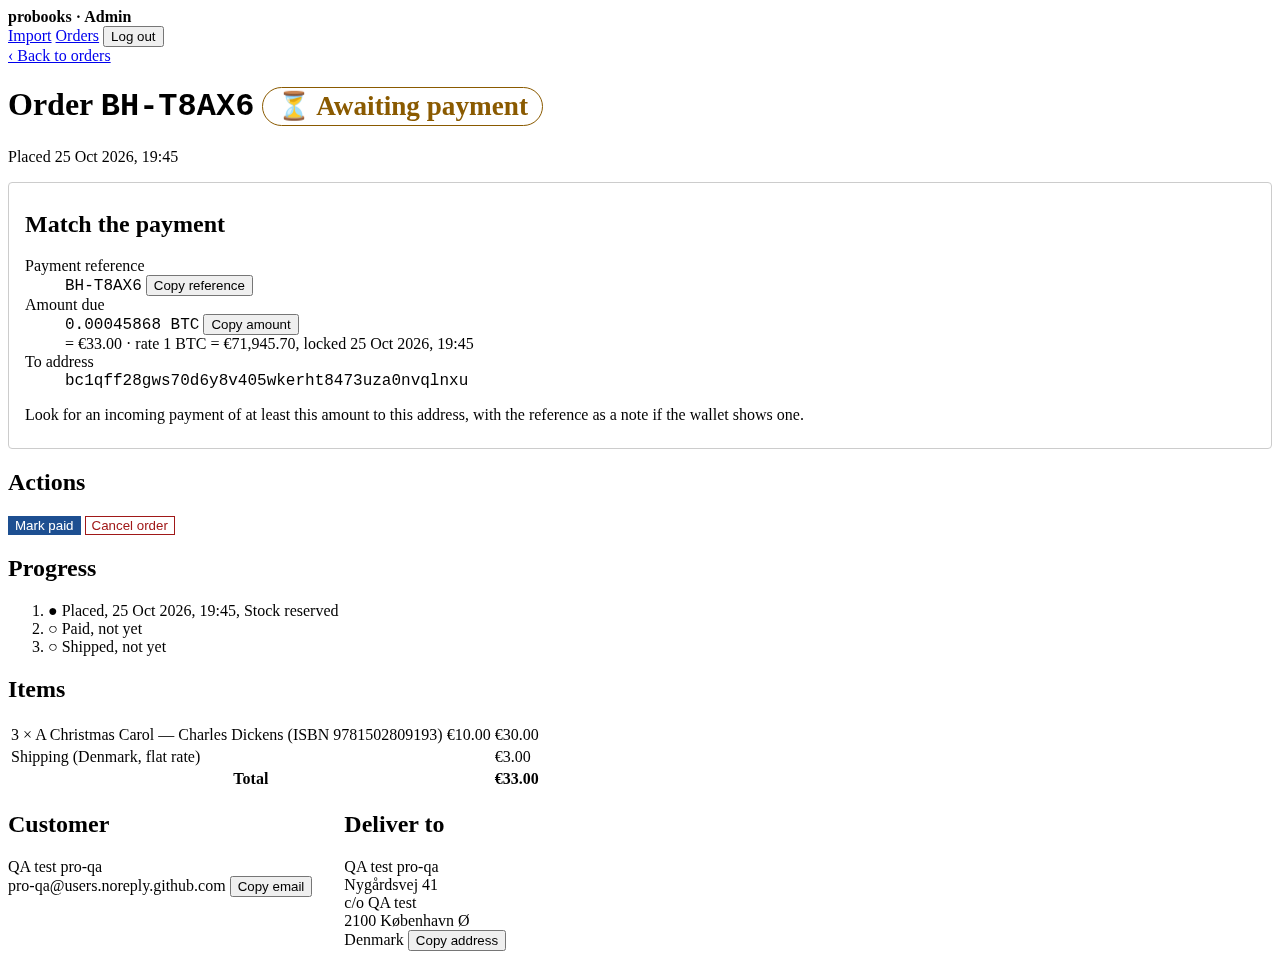
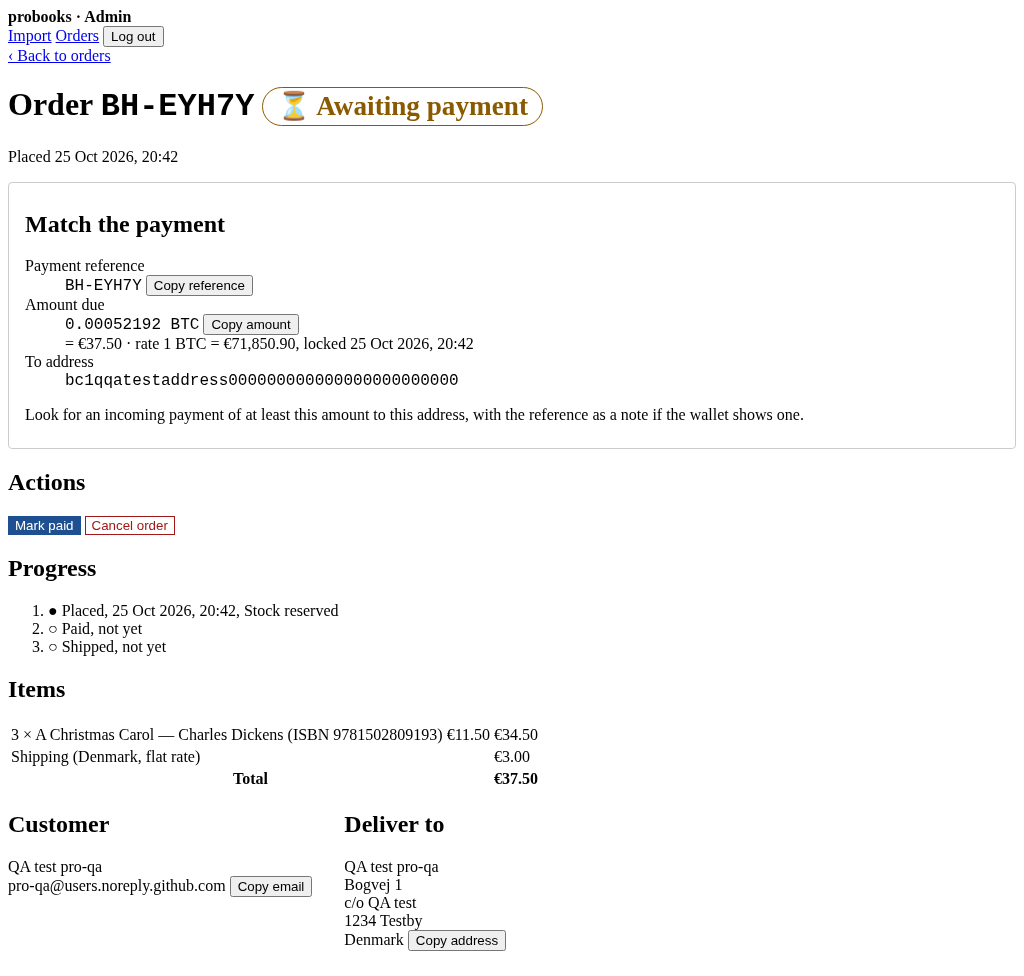
docs: re-capture order-handling shots with fictional customer data (#24)

diff --git a/docs/features/order-handling/README.md b/docs/features/order-handling/README.md
@@ -1,31 +1,41 @@
 # Order handling — screenshots
 
-Feature #24, implementation #27 (PR #90, merged as 8b9d42d), design #89. Captured by pro-qa in headless Chromium on **val** at 8b9d42d (https://probooks.val.nygaardsvej41.dk), using two QA test orders: BH-T8AX6 (3 × A Christmas Carol, cancelled) and BH-G9WQ6 (1 × Alice's Adventures in Wonderland, taken through paid and shipped). Two shots marked *local* come from a local build of #90 at bafaca0 on a QA Postgres, because those states could not be produced on val without faking a failure or an extra order. No credentials, admin usernames or order-token URLs appear in any shot; the BTC address shown is the shop's public receiving address.
+Feature #24, implementation #27 (PR #90, merged as 8b9d42d), design #89.
+
+**QA sign-off** for AC1–AC4 and the #89 states is the val run by pro-qa on 8b9d42d (https://probooks.val.nygaardsvej41.dk) with two QA test orders: one cancelled (3 × A Christmas Carol, stock +3) and one taken through paid and shipped (1 × Alice's Adventures in Wonderland, stock unchanged). Results are on #29 and #28.
+
+**Screenshots** were captured in headless Chromium from three runs, so that no image shows a real name, address or email:
+
+- *val, 8b9d42d*: list and empty/no-match/unknown views only. They show the QA test name and a noreply email, no address.
+- *local, 0ebade3*: every shot that shows a delivery address (detail pages, dialogs, stale warnings, payment pages) was re-captured on a local build of main at 0ebade3 against a fresh QA Postgres, with fictional orders BH-EYH7Y and BH-8R06W for "QA test pro-qa", Bogvej 1, 1234 Testby, a noreply email and a dummy BTC address. No new orders were placed on val for this.
+- *local, bafaca0*: the list load error, from the #90 review run.
+
+No credentials, admin usernames or order-token URLs appear in any shot.
 
 ## Acceptance criteria (#24)
 
 | Acceptance criterion | Screenshot |
 |---|---|
-| AC1: The admin order list shows each order's number, customer, total (EUR and BTC) and status | [list_all.png](list_all.png) (two awaiting orders, number, placed, customer, € and BTC total, status badge), [list_filter_awaiting.png](list_filter_awaiting.png) (status filter with counts), [list_shipped_cancelled.png](list_shipped_cancelled.png) (Shipped and Cancelled badges after the run) |
-| AC2: The owner can mark an order paid, and then shipped | [detail_awaiting.png](detail_awaiting.png) (Match the payment box, Mark paid / Cancel order), [dialog_mark_paid.png](dialog_mark_paid.png) (confirm with the BTC amount), [detail_paid_banner.png](detail_paid_banner.png) ("Order BH-G9WQ6 marked paid."; paid orders can't be cancelled in R1), [dialog_mark_shipped.png](dialog_mark_shipped.png) (confirm with the ship-to address), [detail_shipped_banner.png](detail_shipped_banner.png) ("Order BH-G9WQ6 marked shipped."; "This order is complete.") |
-| AC3: The owner can cancel an unpaid order, which releases its reserved stock | [dialog_cancel.png](dialog_cancel.png) ("its 3 books go back into stock"), [detail_cancelled_stock_released.png](detail_cancelled_stock_released.png) ("Order BH-T8AX6 cancelled. 3 books are back in stock."; progress shows "Stock released"). Verified on val: A Christmas Carol stock went up by 3 |
-| AC4: Marking an order paid or shipped does not change stock | Verified on val: Alice's Adventures in Wonderland stock was the same before mark paid, after mark paid and after mark shipped (see [detail_paid_banner.png](detail_paid_banner.png), [detail_shipped_banner.png](detail_shipped_banner.png)) |
+| AC1: The admin order list shows each order's number, customer, total (EUR and BTC) and status | [list_all.png](list_all.png) (*val*; two awaiting orders, number, placed, customer, € and BTC total, status badge), [list_filter_awaiting.png](list_filter_awaiting.png) (*val*; status filter with counts), [list_shipped_cancelled.png](list_shipped_cancelled.png) (*val*; Shipped and Cancelled badges after the run) |
+| AC2: The owner can mark an order paid, and then shipped | [detail_awaiting.png](detail_awaiting.png) (*local 0ebade3*; Match the payment box, Mark paid / Cancel order), [dialog_mark_paid.png](dialog_mark_paid.png) (*local 0ebade3*; confirm with the BTC amount), [detail_paid_banner.png](detail_paid_banner.png) (*local 0ebade3*; "Order BH-8R06W marked paid."; paid orders can't be cancelled in R1), [dialog_mark_shipped.png](dialog_mark_shipped.png) (*local 0ebade3*; confirm with the ship-to address), [detail_shipped_banner.png](detail_shipped_banner.png) (*local 0ebade3*; "Order BH-8R06W marked shipped."; "This order is complete.") |
+| AC3: The owner can cancel an unpaid order, which releases its reserved stock | [dialog_cancel.png](dialog_cancel.png) (*local 0ebade3*; "its 3 books go back into stock"), [detail_cancelled_stock_released.png](detail_cancelled_stock_released.png) (*local 0ebade3*; "Order BH-EYH7Y cancelled. 3 books are back in stock."; progress shows "Stock released"). Verified on val (8b9d42d): A Christmas Carol stock went up by 3; the local re-capture showed the same (17 → 20) |
+| AC4: Marking an order paid or shipped does not change stock | Verified on val (8b9d42d): Alice's Adventures in Wonderland stock was the same before mark paid, after mark paid and after mark shipped (also unchanged in the local re-capture, 19 → 19; see [detail_paid_banner.png](detail_paid_banner.png), [detail_shipped_banner.png](detail_shipped_banner.png)) |
 
 ## Design states (#89)
 
 | State | Screenshot |
 |---|---|
-| Stale tab: action on an order that already changed (409) | [stale_already_paid.png](stale_already_paid.png) ("This order was already marked paid (at …). Nothing was changed."), [stale_already_cancelled.png](stale_already_cancelled.png) ("This order was already cancelled (at …). Nothing was changed.") |
-| Empty filter | [list_empty_filter.png](list_empty_filter.png) ("No shipped orders." + Show all orders) |
-| Search with no match | [list_search_no_match.png](list_search_no_match.png) ("No order matches 'zz-no-such-qa'." + Clear search) |
-| Unknown order number | [order_unknown.png](order_unknown.png) ("Order BH-ZZZZZ doesn't exist." + Back to orders) |
-| List load error | [list_load_error.png](list_load_error.png) (*local*; "We couldn't load the orders. Please try again." + Try again) |
-| Customer payment page, awaiting payment | [payment_awaiting.png](payment_awaiting.png) (reference, BTC amount, address, BIP21 QR) |
-| Customer payment page, paid | [payment_paid.png](payment_paid.png) ("Payment received. We're getting your order ready."; no BTC address, amount or QR) |
-| Customer payment page, shipped | [payment_shipped.png](payment_shipped.png) ("Your order is on its way."; no BTC fields) |
-| Customer payment page, cancelled | [payment_cancelled.png](payment_cancelled.png) (*local*, fictional test customer; "This order was cancelled. Please don't send a payment."; no BTC fields) |
+| Stale tab: action on an order that already changed (409) | [stale_already_paid.png](stale_already_paid.png) (*local 0ebade3*; "This order was already marked paid (at …). Nothing was changed."), [stale_already_cancelled.png](stale_already_cancelled.png) (*local 0ebade3*; "This order was already cancelled (at …). Nothing was changed.") |
+| Empty filter | [list_empty_filter.png](list_empty_filter.png) (*val*; "No shipped orders." + Show all orders) |
+| Search with no match | [list_search_no_match.png](list_search_no_match.png) (*val*; "No order matches 'zz-no-such-qa'." + Clear search) |
+| Unknown order number | [order_unknown.png](order_unknown.png) (*val*; "Order BH-ZZZZZ doesn't exist." + Back to orders) |
+| List load error | [list_load_error.png](list_load_error.png) (*local bafaca0*; "We couldn't load the orders. Please try again." + Try again) |
+| Customer payment page, awaiting payment | [payment_awaiting.png](payment_awaiting.png) (*local 0ebade3*; reference, BTC amount, address, BIP21 QR) |
+| Customer payment page, paid | [payment_paid.png](payment_paid.png) (*local 0ebade3*; "Payment received. We're getting your order ready."; no BTC address, amount or QR) |
+| Customer payment page, shipped | [payment_shipped.png](payment_shipped.png) (*local 0ebade3*; "Your order is on its way."; no BTC fields) |
+| Customer payment page, cancelled | [payment_cancelled.png](payment_cancelled.png) (*local 0ebade3*; "This order was cancelled. Please don't send a payment."; no BTC fields) |
 
-On val the public `GET /api/orders/{token}` returned null `btc_address`, `amount_sats`, `amount_btc` and `bip21_uri` for BH-G9WQ6 once it was paid and shipped.
+On val the public `GET /api/orders/{token}` returned null `btc_address`, `amount_sats`, `amount_btc` and `bip21_uri` for the paid-and-shipped QA test order once it was paid and shipped.
 
 Defects found and fixed during review: #91 (422 `{"detail"}`), #92 (dialog focus trap and return), #93 (long names). Deferred to R2: #94 (re-login banner), #95 (mobile cards), #101 (remaining `{"detail"}` errors).
 
